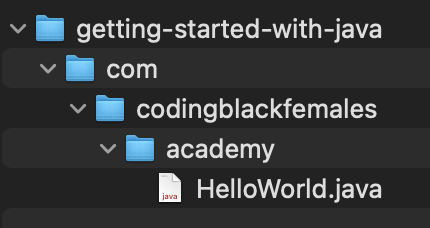
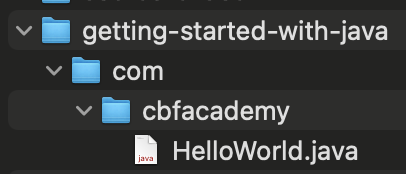
Update unit 1 exercise description

Changed region(s): [[0.0296, 0.0575, 0.9754, 0.7184], [0.3251, 0.7471, 0.8867, 0.9483], [0.0887, 0.0, 0.1773, 0.0287]]

diff --git a/exercises/getting-started/README.md b/exercises/getting-started/README.md
@@ -17,9 +17,8 @@ In your preferred working directory,
 - Inside this project folder:
     - create a sub-directory called **`com`**
     - inside the `com` directory, create a sub-directory called **`cbfacademy`**
-    - inside the `codingblackfemales` directory, create a sub-directory called **`academy`**
 
-- Inside that last sub-directory (`academy`), create a file called **`HelloWorld.java`**.
+- Inside that last sub-directory (`cbfacademy`), create a file called **`HelloWorld.java`**.
 
 At this point, our project folder structure looks as follows:
 
@@ -47,7 +46,7 @@ In your terminal, navigate to the `getting-started-with-java` project folder.
 Execute this command to **compile** our Java program
 
 ```bash
-javac com/codingblackfemales/academy/HelloWorld.java
+javac com/cbfacademy/HelloWorld.java
 ```
 
 A `HelloWorld.class` file is now created alongside our Java source.
